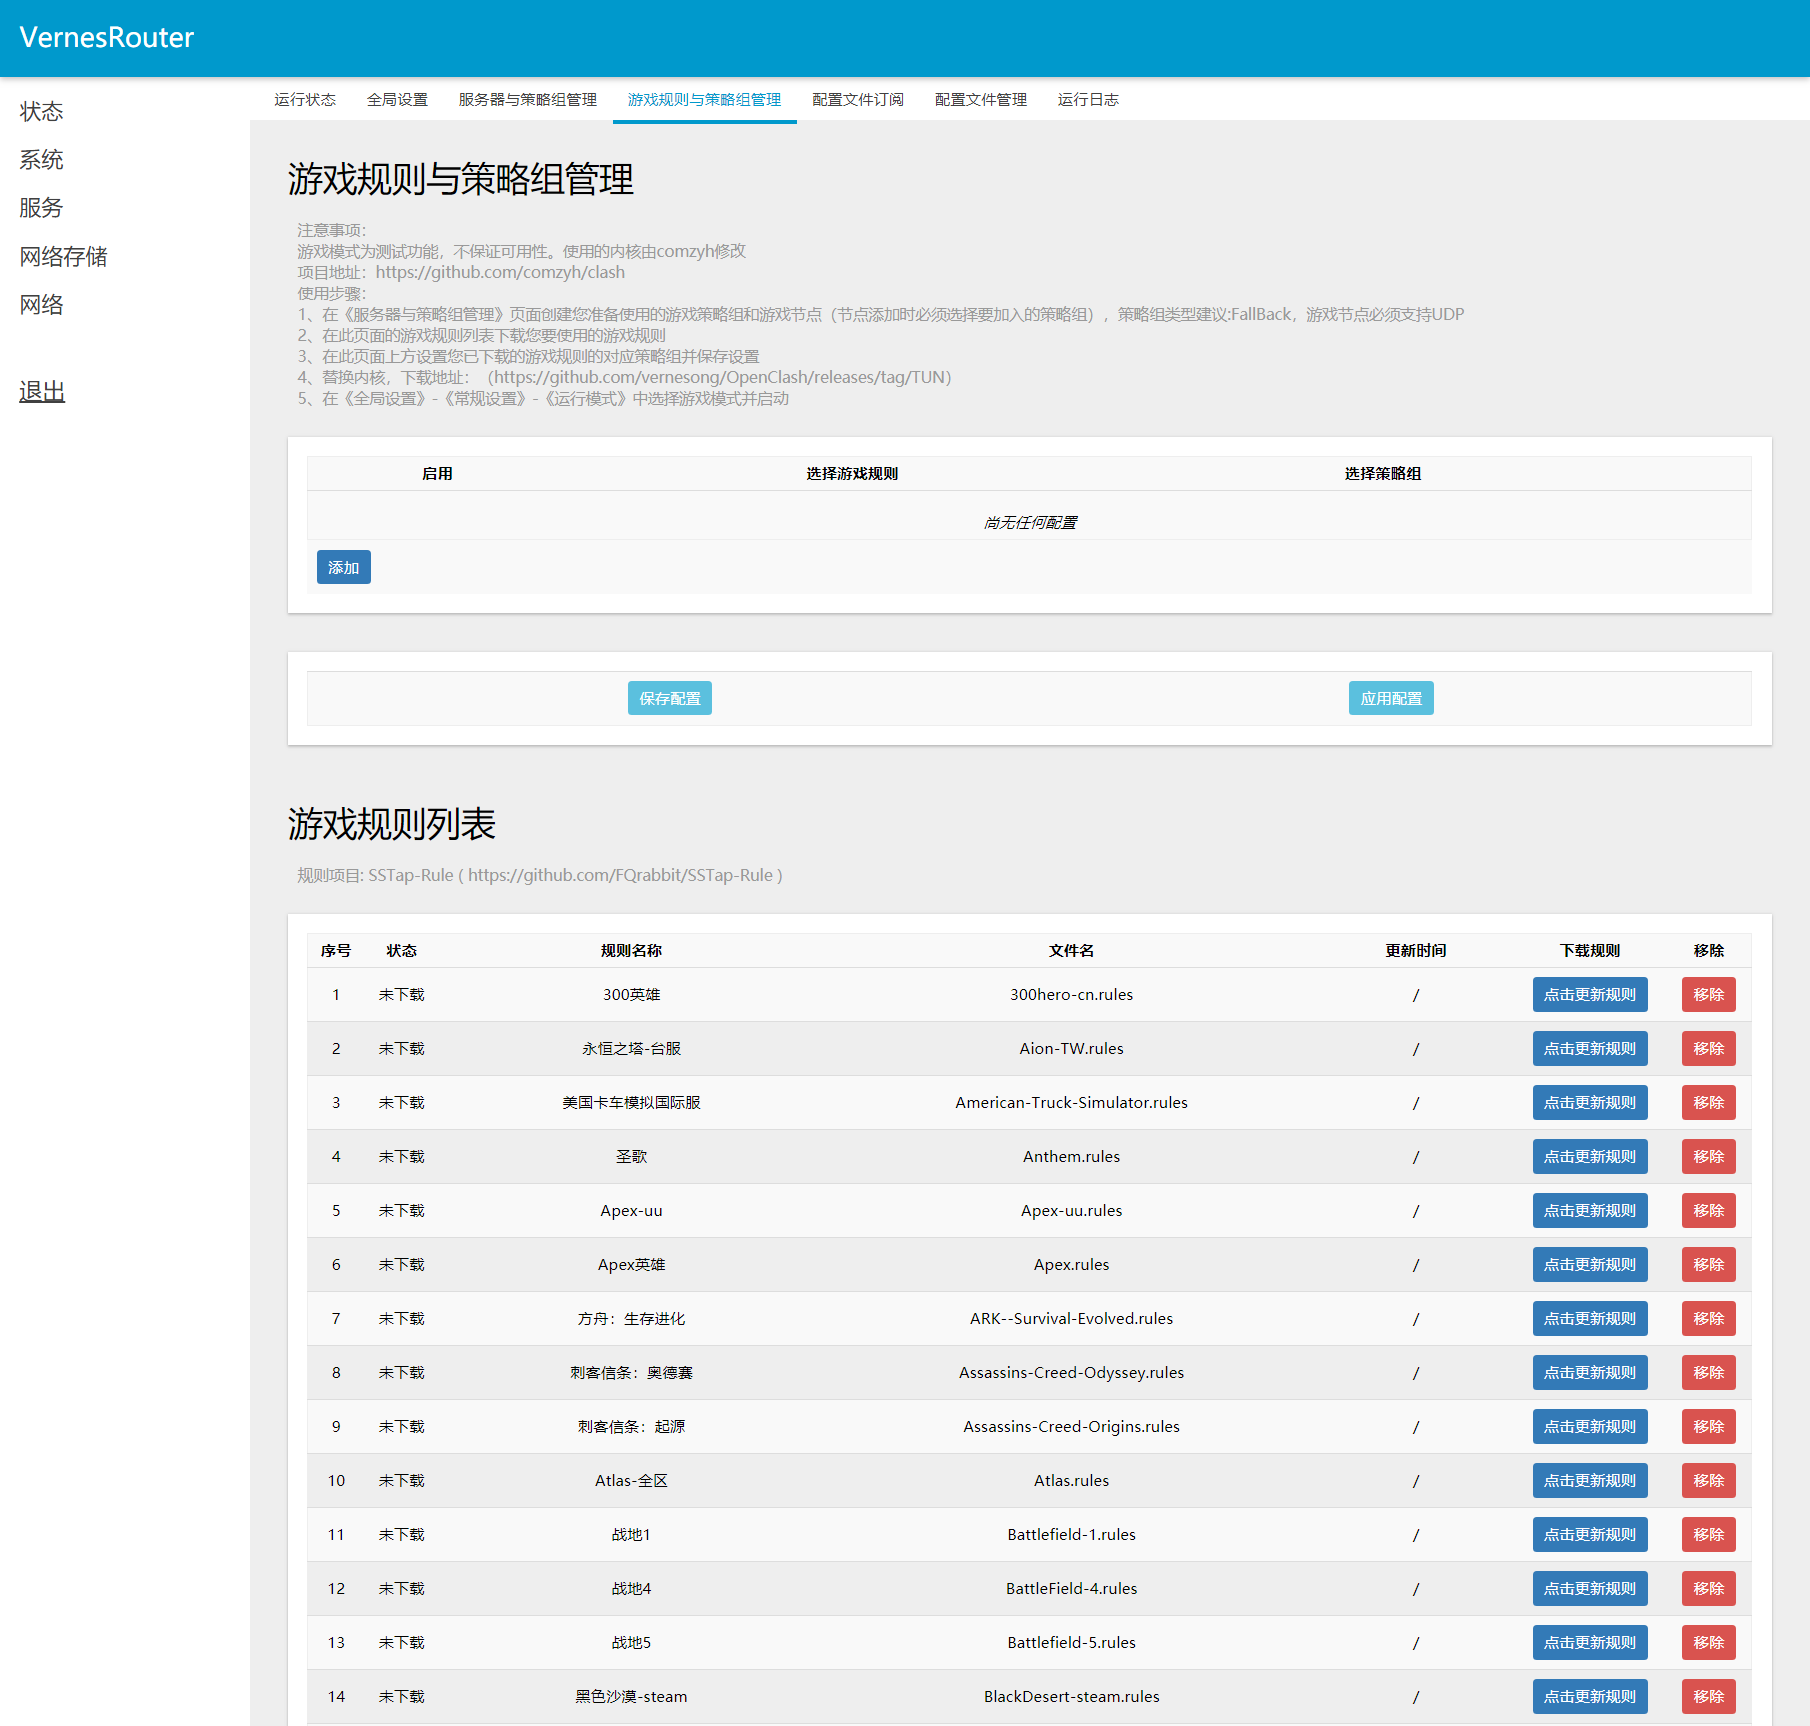
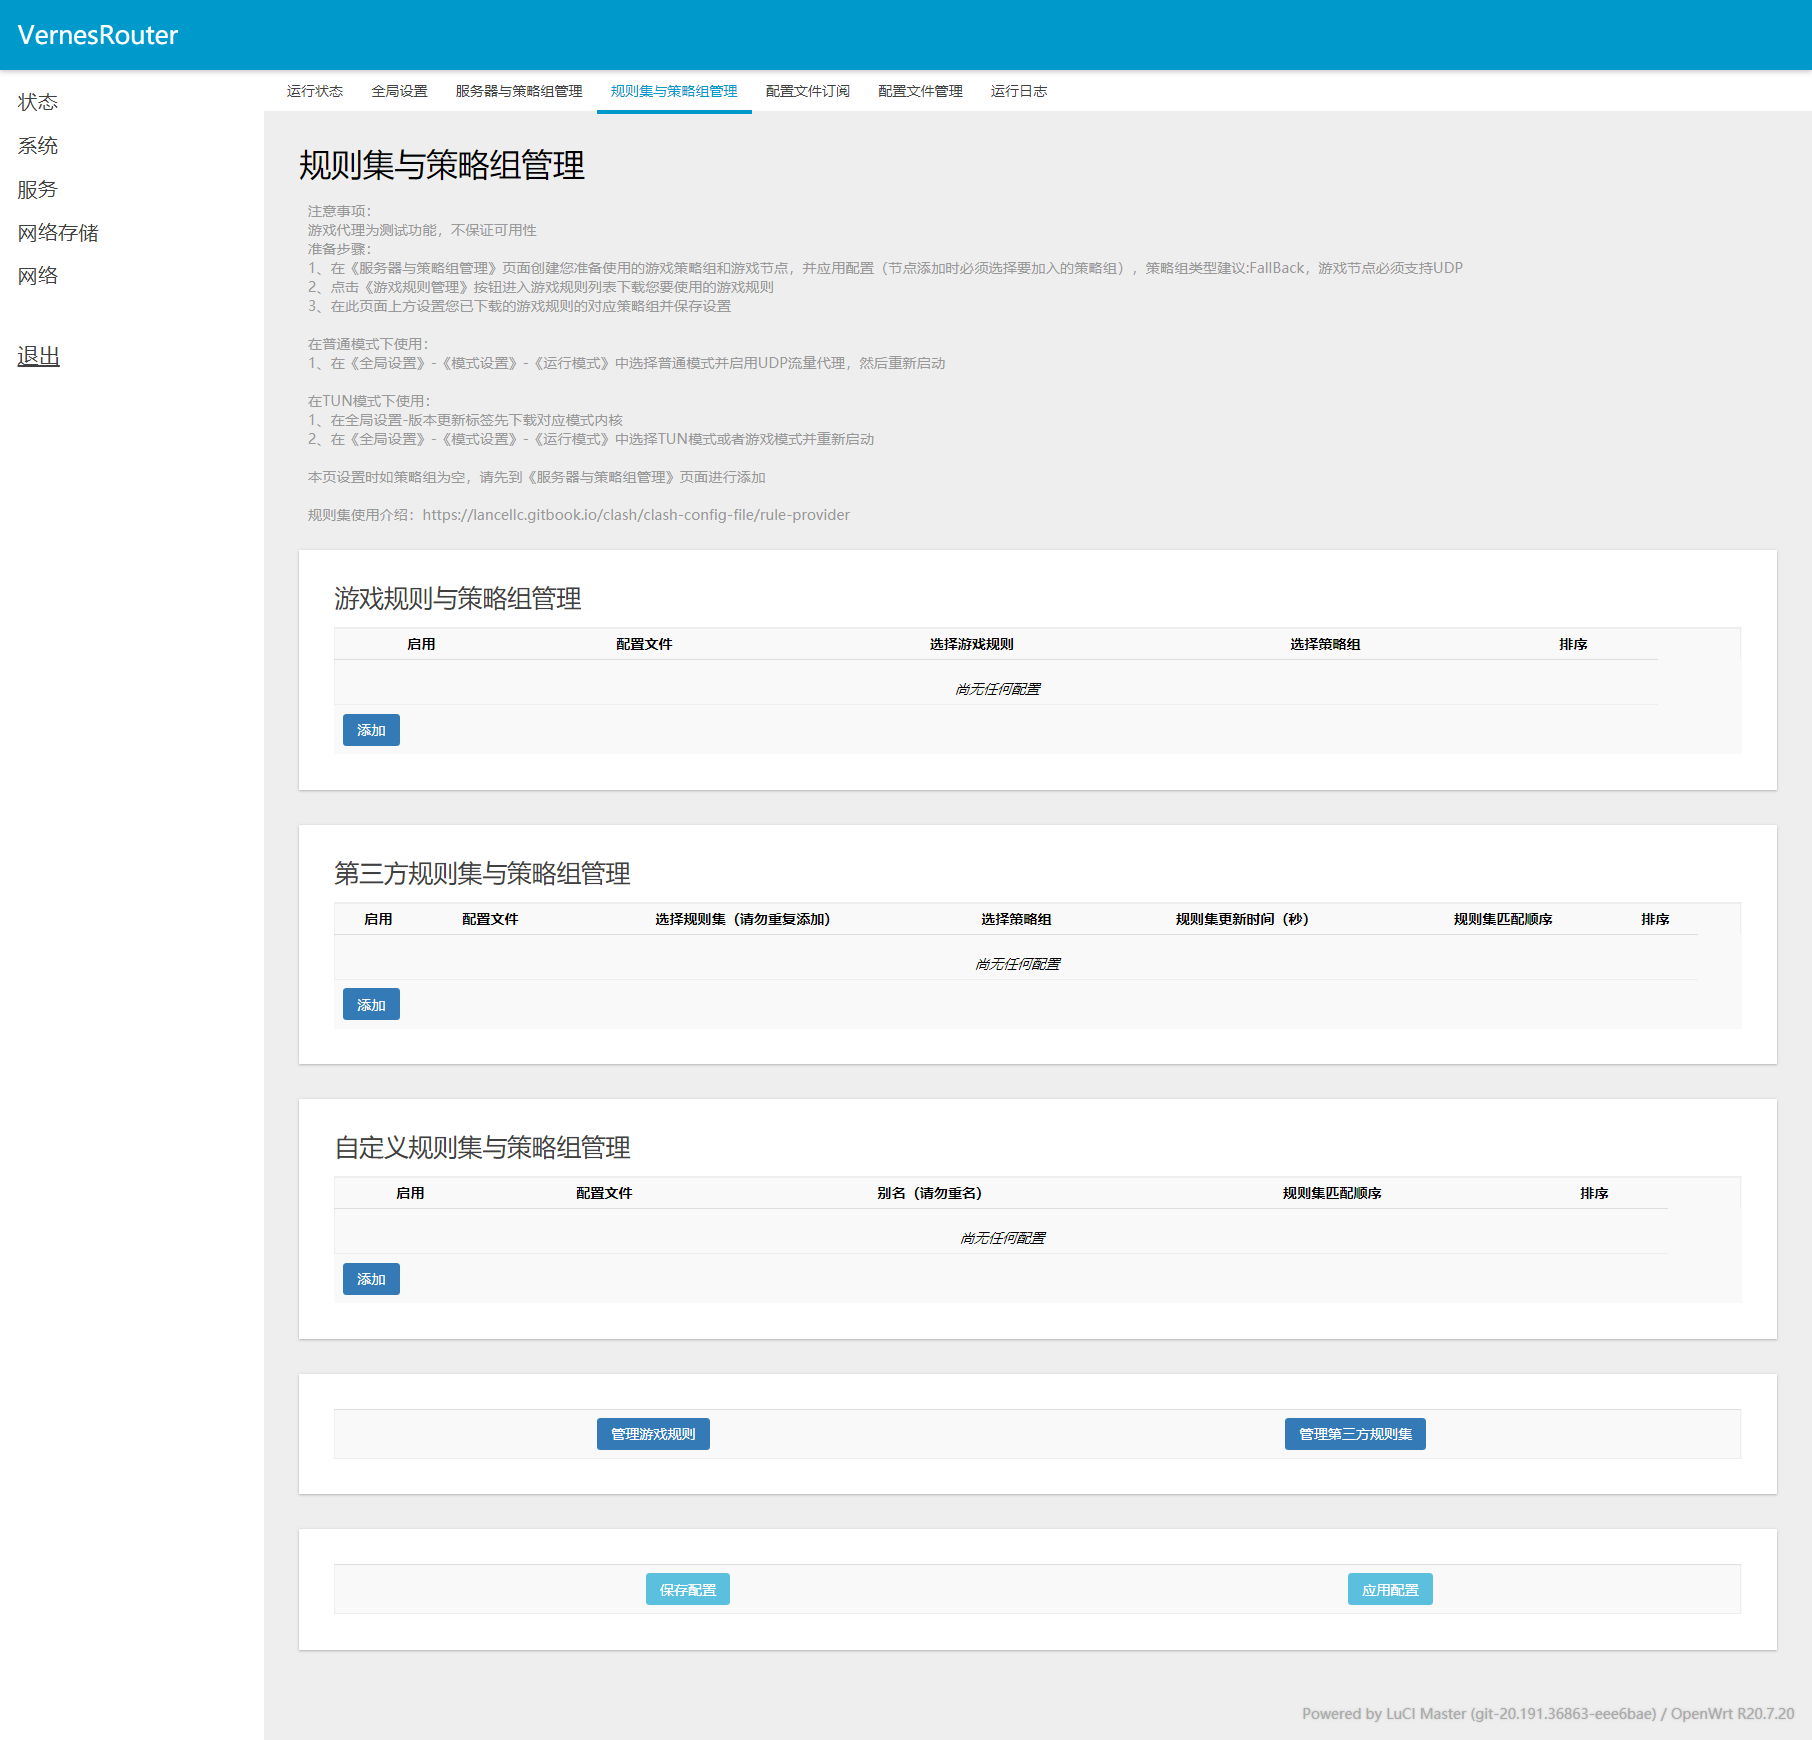
update preview

diff --git a/README.md b/README.md
@@ -165,7 +165,7 @@ make menuconfig
     <img src="https://github.com/vernesong/OpenClash/raw/master/img/servers.png">
 </p>
 
-* 游戏规则&策略组
+* 规则&策略组
 <p align="center">
     <img src="https://github.com/vernesong/OpenClash/raw/master/img/game-settings.png">
 </p>
